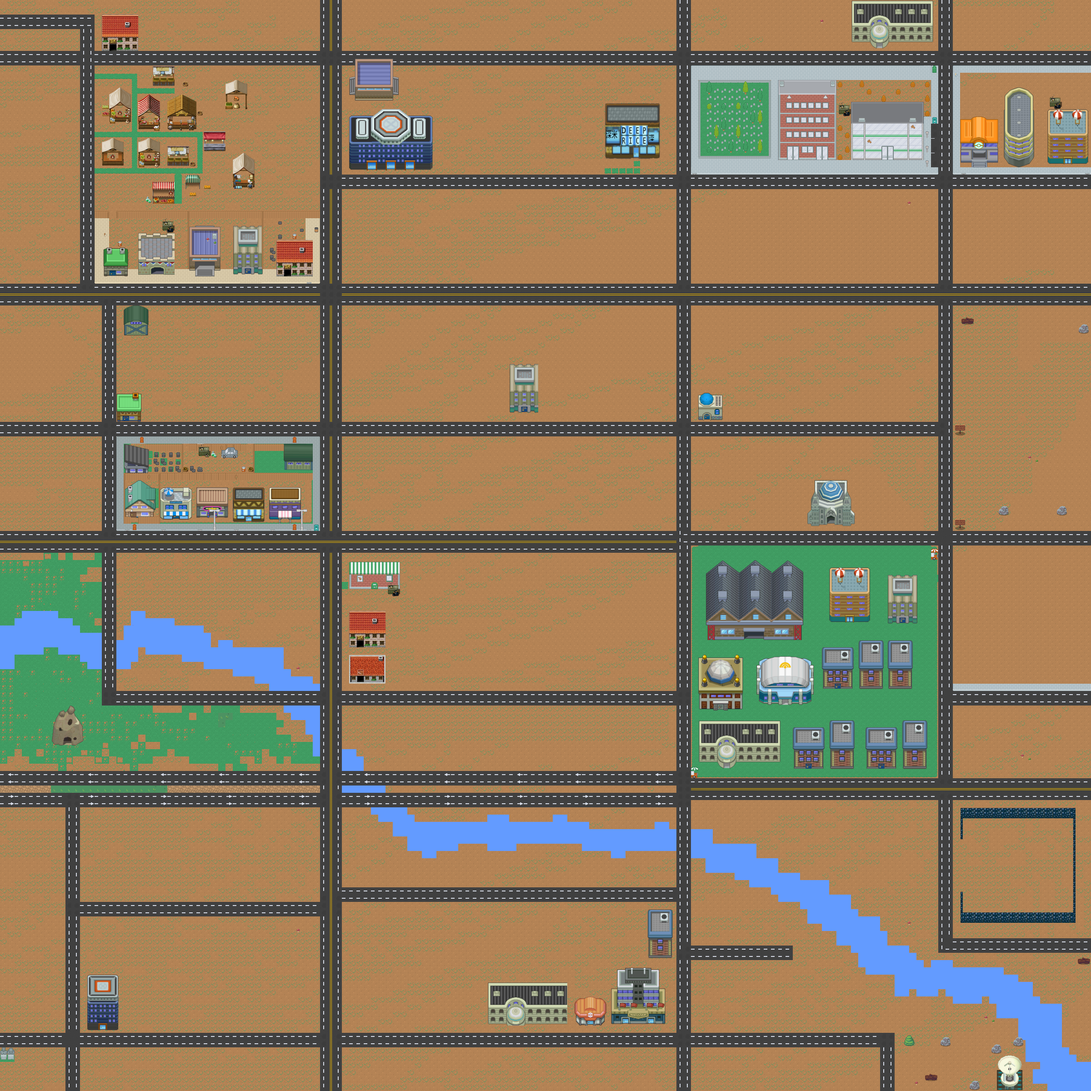
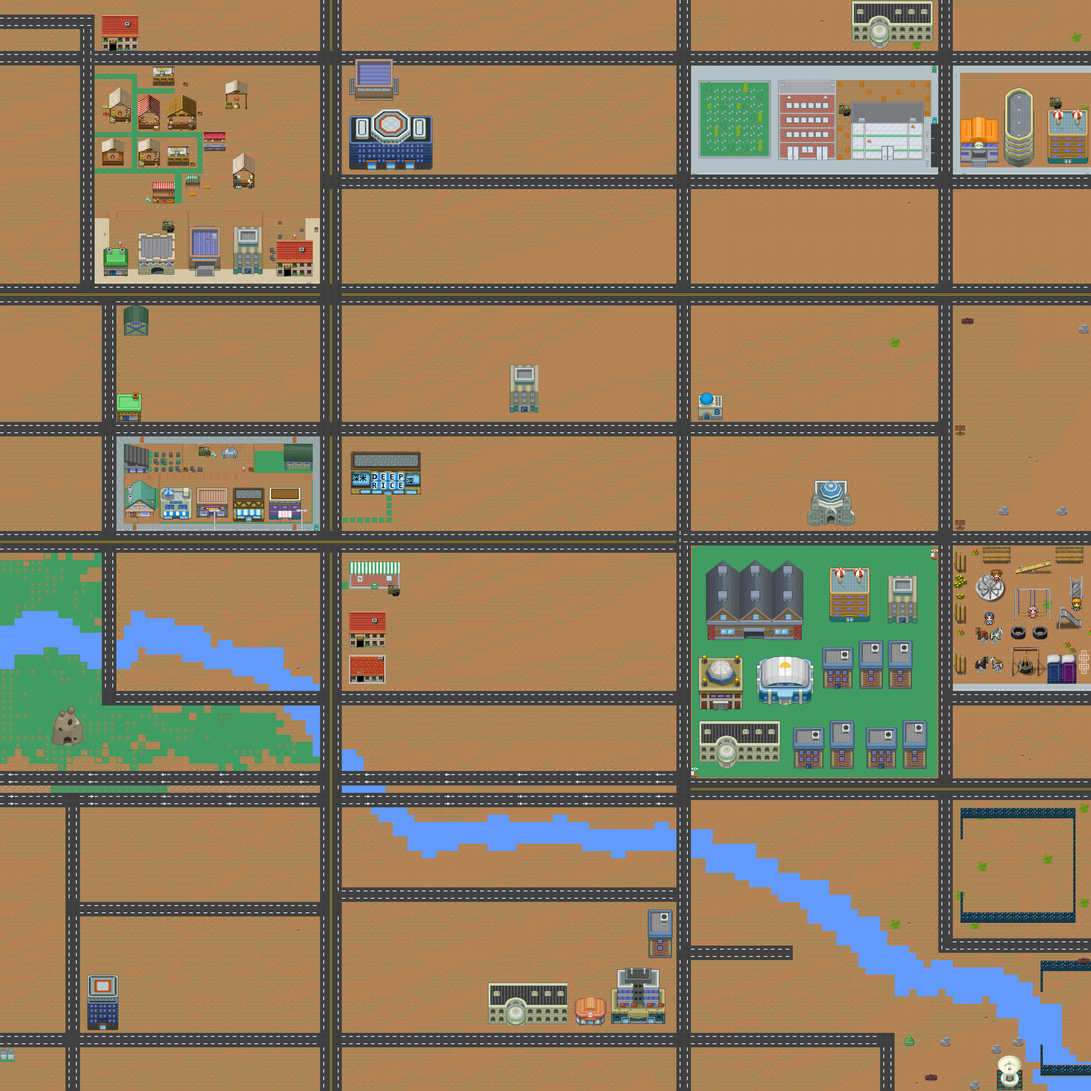
adding playground functionality;

diff --git a/resources/src/maps/chinese-restaurant.tsx b/resources/src/maps/chinese-restaurant.tsx
@@ -1,0 +1,4 @@
+<?xml version="1.0" encoding="UTF-8"?>
+<tileset version="1.4" tiledversion="1.4.1" name="chinese-restaurant" tilewidth="16" tileheight="16" tilecount="60" columns="10">
+ <image source="assets/chinese-restaurant.png" width="160" height="103"/>
+</tileset>

diff --git a/resources/src/maps/playground.tsx b/resources/src/maps/playground.tsx
@@ -1,0 +1,4 @@
+<?xml version="1.0" encoding="UTF-8"?>
+<tileset version="1.4" tiledversion="1.4.1" name="playground" tilewidth="16" tileheight="16" tilecount="1024" columns="32">
+ <image source="assets/playground.png" width="512" height="512"/>
+</tileset>

diff --git a/resources/src/maps/characters.tsx b/resources/src/maps/characters.tsx
@@ -1,0 +1,4 @@
+<?xml version="1.0" encoding="UTF-8"?>
+<tileset version="1.4" tiledversion="1.4.1" name="characters" tilewidth="16" tileheight="16" tilecount="384" columns="24">
+ <image source="assets/characters.png" width="384" height="256"/>
+</tileset>

diff --git a/src/Scenes/Opening.cpp b/src/Scenes/Opening.cpp
@@ -53,6 +53,10 @@ Opening::Opening(ResourceManager& resmgr, sf::RenderTarget& target, PlayerPtr pl
 
     _lastPlayerPos = sf::Vector2f(PLAYER_START_X, PLAYER_START_Y);
 
+    _pgSoundBuffer = *(resmgr.load<sf::SoundBuffer>("sounds/playground.wav"));
+    _pgSound.setBuffer(_pgSoundBuffer);
+    _pgCenter = _background->getGlobalCenterFromTile(sf::Vector2f{ 141.f, 118.f });
+
     //_bgsong = _resources.openUniquePtr<sf::Music>("music/background_music1.wav");
     //_bgsong->setLoop(true);
     //_bgsong->play();
@@ -337,6 +341,7 @@ ScreenAction Opening::timestep()
     ss << _player->getGlobalCenter();
     std::stringstream ss1;
     ss1 << getPlayerTile();
+
     auto posText = fmt::format("P({},{})", ss.str(), ss1.str());
     _debugWindow.setText(posText);
 
@@ -465,6 +470,30 @@ sf::Vector2f Opening::animeCallback()
 void Opening::updateCurrentTile(const TileInfo& info)
 {
     _currentTile = info;
+
+    auto pgdist = tt::distance(_pgCenter, _player->getGlobalCenter());
+    if (pgdist < 500.0f)
+    {
+        if (_pgSound.getStatus() != sf::SoundSource::Status::Playing)
+        {
+            _pgSound.setVolume(100.0);
+            _pgSound.play();
+        }
+    }
+    else if (pgdist < 1000.0f)
+    {
+        //_pgSound.setVolume(1.f / (pgdist / 10.f));
+        _pgSound.setVolume((1000.f / pgdist) * 50.f);
+        if (_pgSound.getStatus() != sf::SoundSource::Status::Playing)
+        {
+            _pgSound.play();
+        }
+    }
+    else
+    {
+        _pgSound.setVolume(0.f);
+        _pgSound.pause();
+    }
 
     bool handled = false;
     std::for_each(_items.begin(), _items.end(),

diff --git a/src/Scenes/Opening.h b/src/Scenes/Opening.h
@@ -100,6 +100,11 @@ private:
     bool                                _updateTraffic = true;
 
     //std::unique_ptr<sf::Music>          _bgsong;
+
+    sf::SoundBuffer                     _pgSoundBuffer;
+    sf::Sound                           _pgSound;
+    sf::Vector2f                        _pgCenter;
+    float                               _pgVolume = 0.f;
 };
 
 } // namespace tt

diff --git a/src/TTUtils.h b/src/TTUtils.h
@@ -108,5 +108,11 @@ inline bool exactly_one_bit_set(T n)
     return n && !(n & (n - 1));
 }
 
+inline float distance(const sf::Vector2f& v1, const sf::Vector2f& v2)
+{
+    auto x = v1.x - v2.x;
+    auto y = v1.y - v2.y;
+    return std::sqrtf((x*x) + (y*y));
+}
     
 } // namespace tt
